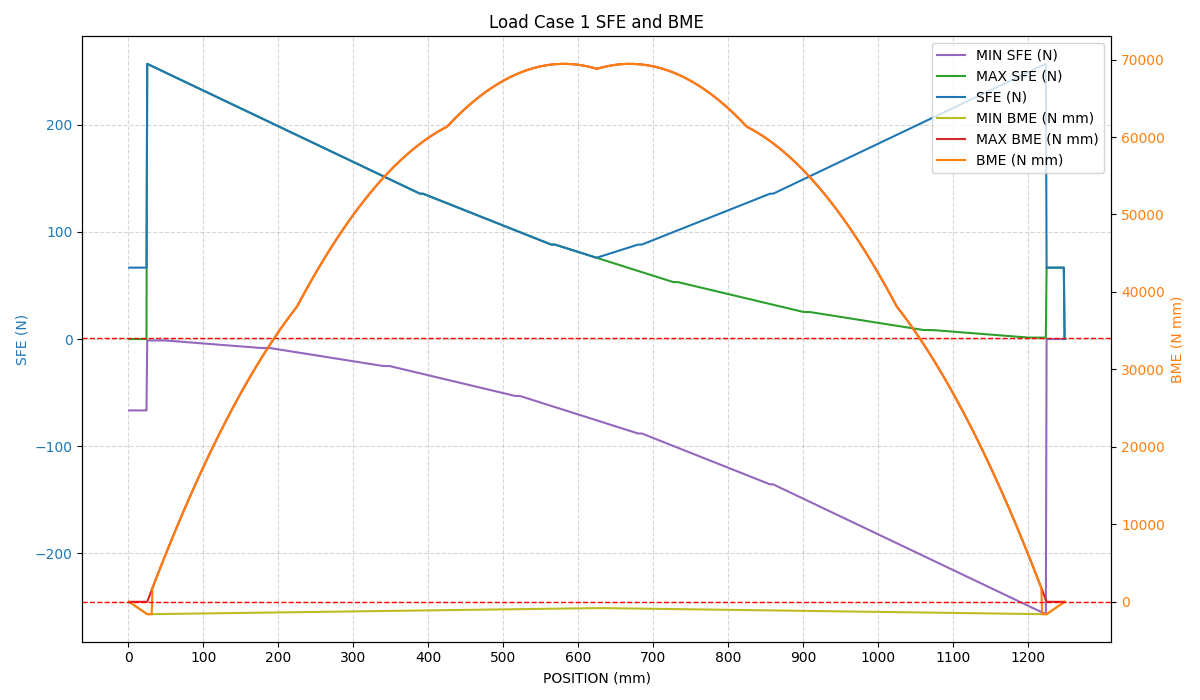
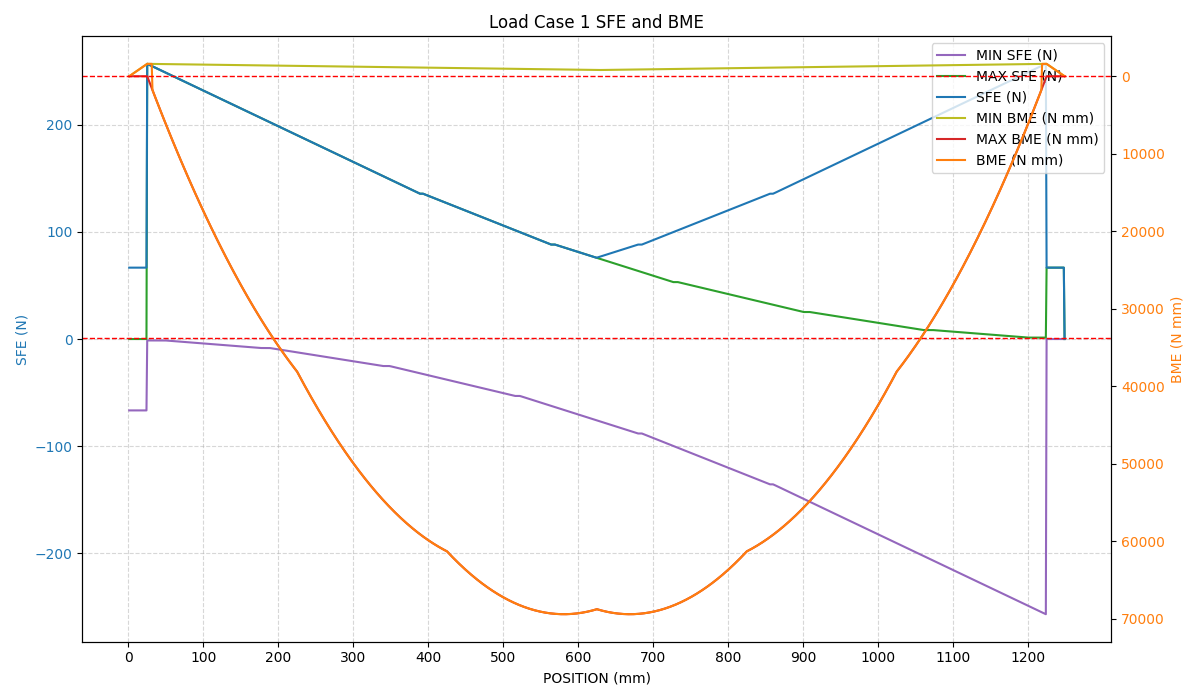
made a bunch of diagrams

diff --git a/plot.py b/plot.py
@@ -43,7 +43,7 @@ def plot(data_rows, plotting_fos):
         for i, y in enumerate(y_series):
             plt.plot(x, y, label=y_labels[i])
         plt.yscale("log")
-        plt.ylim((0.9, 10**2))
+        plt.ylim((0.5, 10**2))
         plt.ylabel("FOS (log scale)")
         plt.axhline(y=1, color='red', linestyle='--', linewidth=1, label='FOS = 1')
 
@@ -71,6 +71,7 @@ def plot(data_rows, plotting_fos):
 
         # Right axis
         ax2 = ax1.twinx()
+        ax2.invert_yaxis()
         ax2.plot(x, y_series[3], color='tab:olive', label=y_labels[3])
         ax2.plot(x, y_series[4], color='tab:red', label=y_labels[4])
         ax2.plot(x, y_series[5], color='tab:orange', label=y_labels[5])
@@ -97,7 +98,7 @@ def plot(data_rows, plotting_fos):
 
     # --- Common plotting for FOS case ---
     plt.xlabel(x_label)
-    plt.title("Bridge Failure Modes vs Position")
+    plt.title("Load Case Final Design Final Failure Modes")
     plt.grid(True, which="both", ls="--", alpha=0.5)
     plt.legend(loc="upper right")
     plt.tight_layout()

diff --git a/optimize.py b/optimize.py
@@ -324,13 +324,13 @@ if __name__ == "__main__":
     SFD_ENV = BMD.SFE()
 
     #get arrays of rectangles of different cross-sections
-    #supports = CrossSection.get_rects("./section_v4_supports.txt")
-    #edge = CrossSection.get_rects("./section_v4_middle.txt")
-    #middle = CrossSection.get_rects("./section_v4_midmid.txt")
+    supports = CrossSection.get_rects("./section_final_supports.txt")
+    edge = CrossSection.get_rects("./section_final_middle.txt")
+    middle = CrossSection.get_rects("./section_final_midmid.txt")
 
-    supports = CrossSection.get_rects("./test_shape.txt")
-    edge = CrossSection.get_rects("./test_shape.txt")
-    middle = CrossSection.get_rects("./test_shape.txt")
+    #supports = CrossSection.get_rects("./test_shape.txt")
+    #edge = CrossSection.get_rects("./test_shape.txt")
+    #middle = CrossSection.get_rects("./test_shape.txt")
 
     #get FOS across bridge (array of strings...)
     list = FOS_whole_bridge(SFD_ENV, BMD_ENV, supports, edge, middle)
